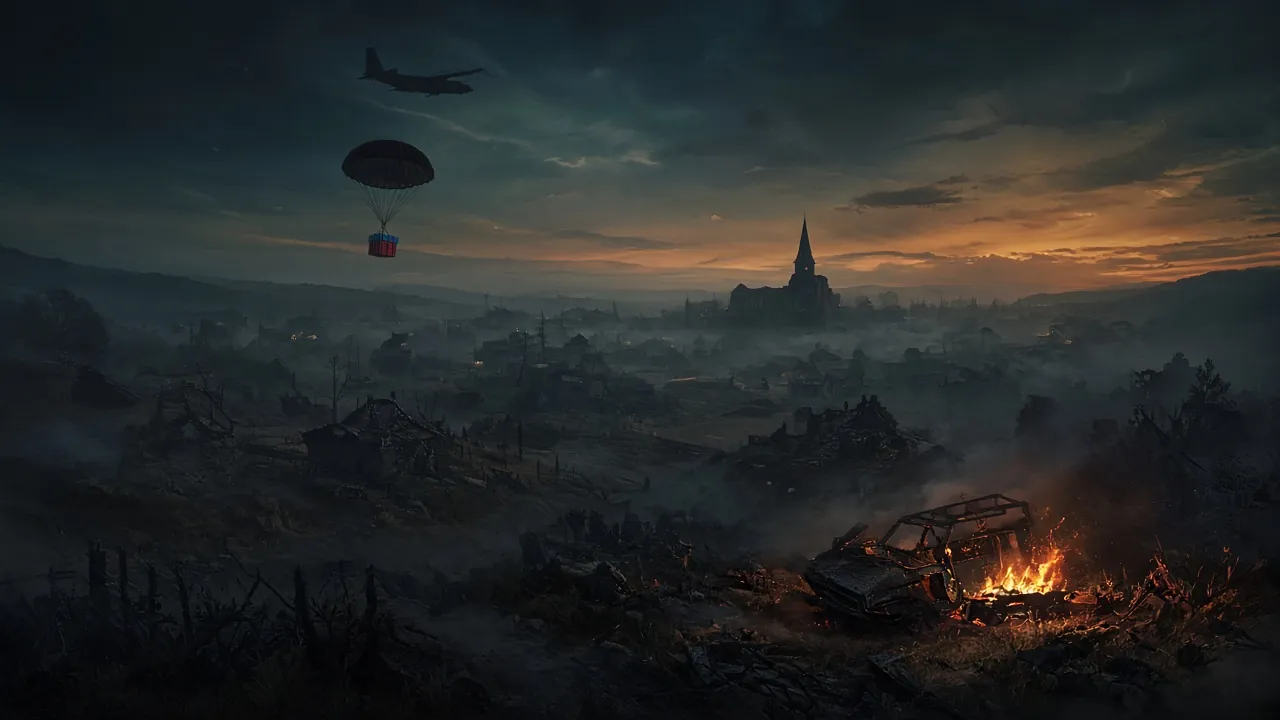
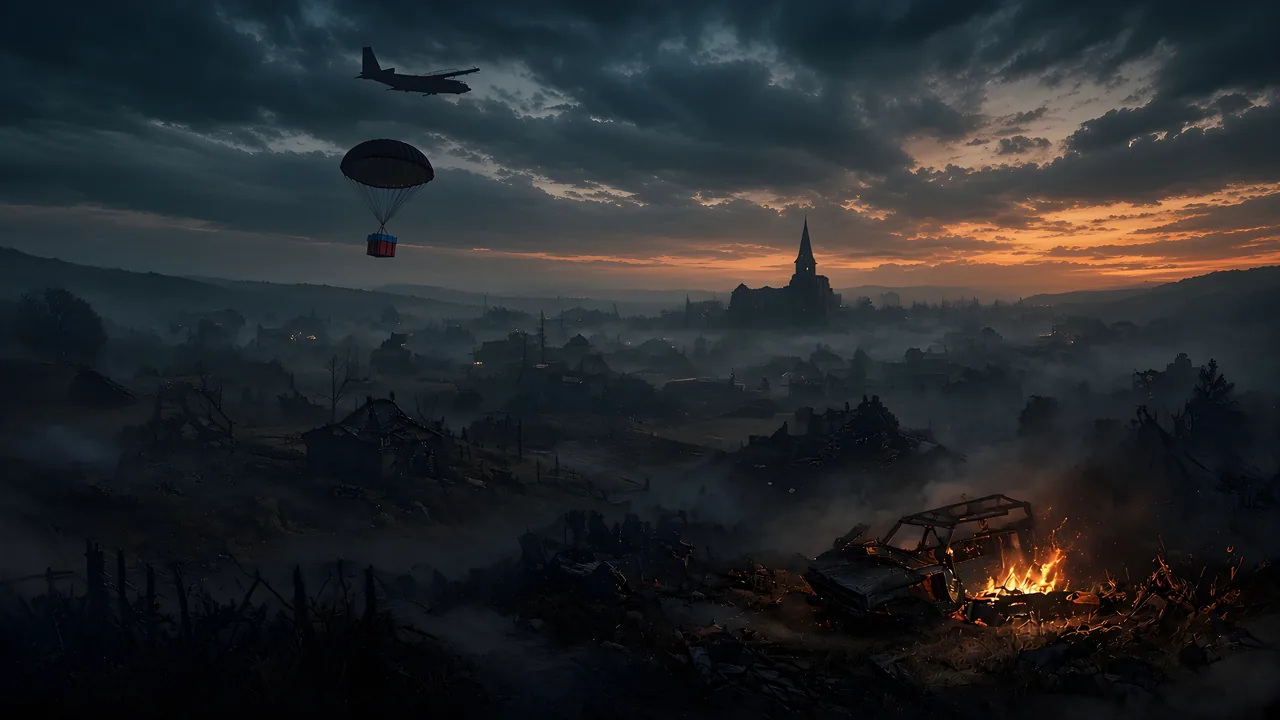
Hero background: sharp 3840 version (ESRGAN upscale), serve by viewport/DPR; keep v1 in assets/drafts

diff --git a/index.html b/index.html
@@ -14,7 +14,8 @@
   <link rel="preconnect" href="https://fonts.googleapis.com">
   <link rel="preconnect" href="https://fonts.gstatic.com" crossorigin>
   <link href="https://fonts.googleapis.com/css2?family=Black+Ops+One&family=Rubik:wght@400;500;700;900&display=swap" rel="stylesheet">
-  <link rel="preload" as="image" href="assets/hero-bg-1920.webp" media="(min-width: 901px)">
+  <link rel="preload" as="image" href="assets/hero-bg-3840.webp" media="(min-width: 1921px), (min-width: 901px) and (min-resolution: 1.5dppx)">
+  <link rel="preload" as="image" href="assets/hero-bg-1920.webp" media="(min-width: 901px) and (max-width: 1920px) and (max-resolution: 1.49dppx)">
   <link rel="preload" as="image" href="assets/hero-bg-1280.webp" media="(max-width: 900px)">
   <link rel="stylesheet" href="css/style.css">
 </head>
@@ -33,6 +34,7 @@
       <div class="layer layer-bg" data-speed="0.55" data-mouse="10">
         <picture>
           <source media="(max-width: 900px)" srcset="assets/hero-bg-1280.webp">
+          <source media="(min-width: 1921px), (min-resolution: 1.5dppx)" srcset="assets/hero-bg-3840.webp">
           <img class="hero-bg" src="assets/hero-bg-1920.webp" alt="" fetchpriority="high" decoding="async">
         </picture>
       </div>
